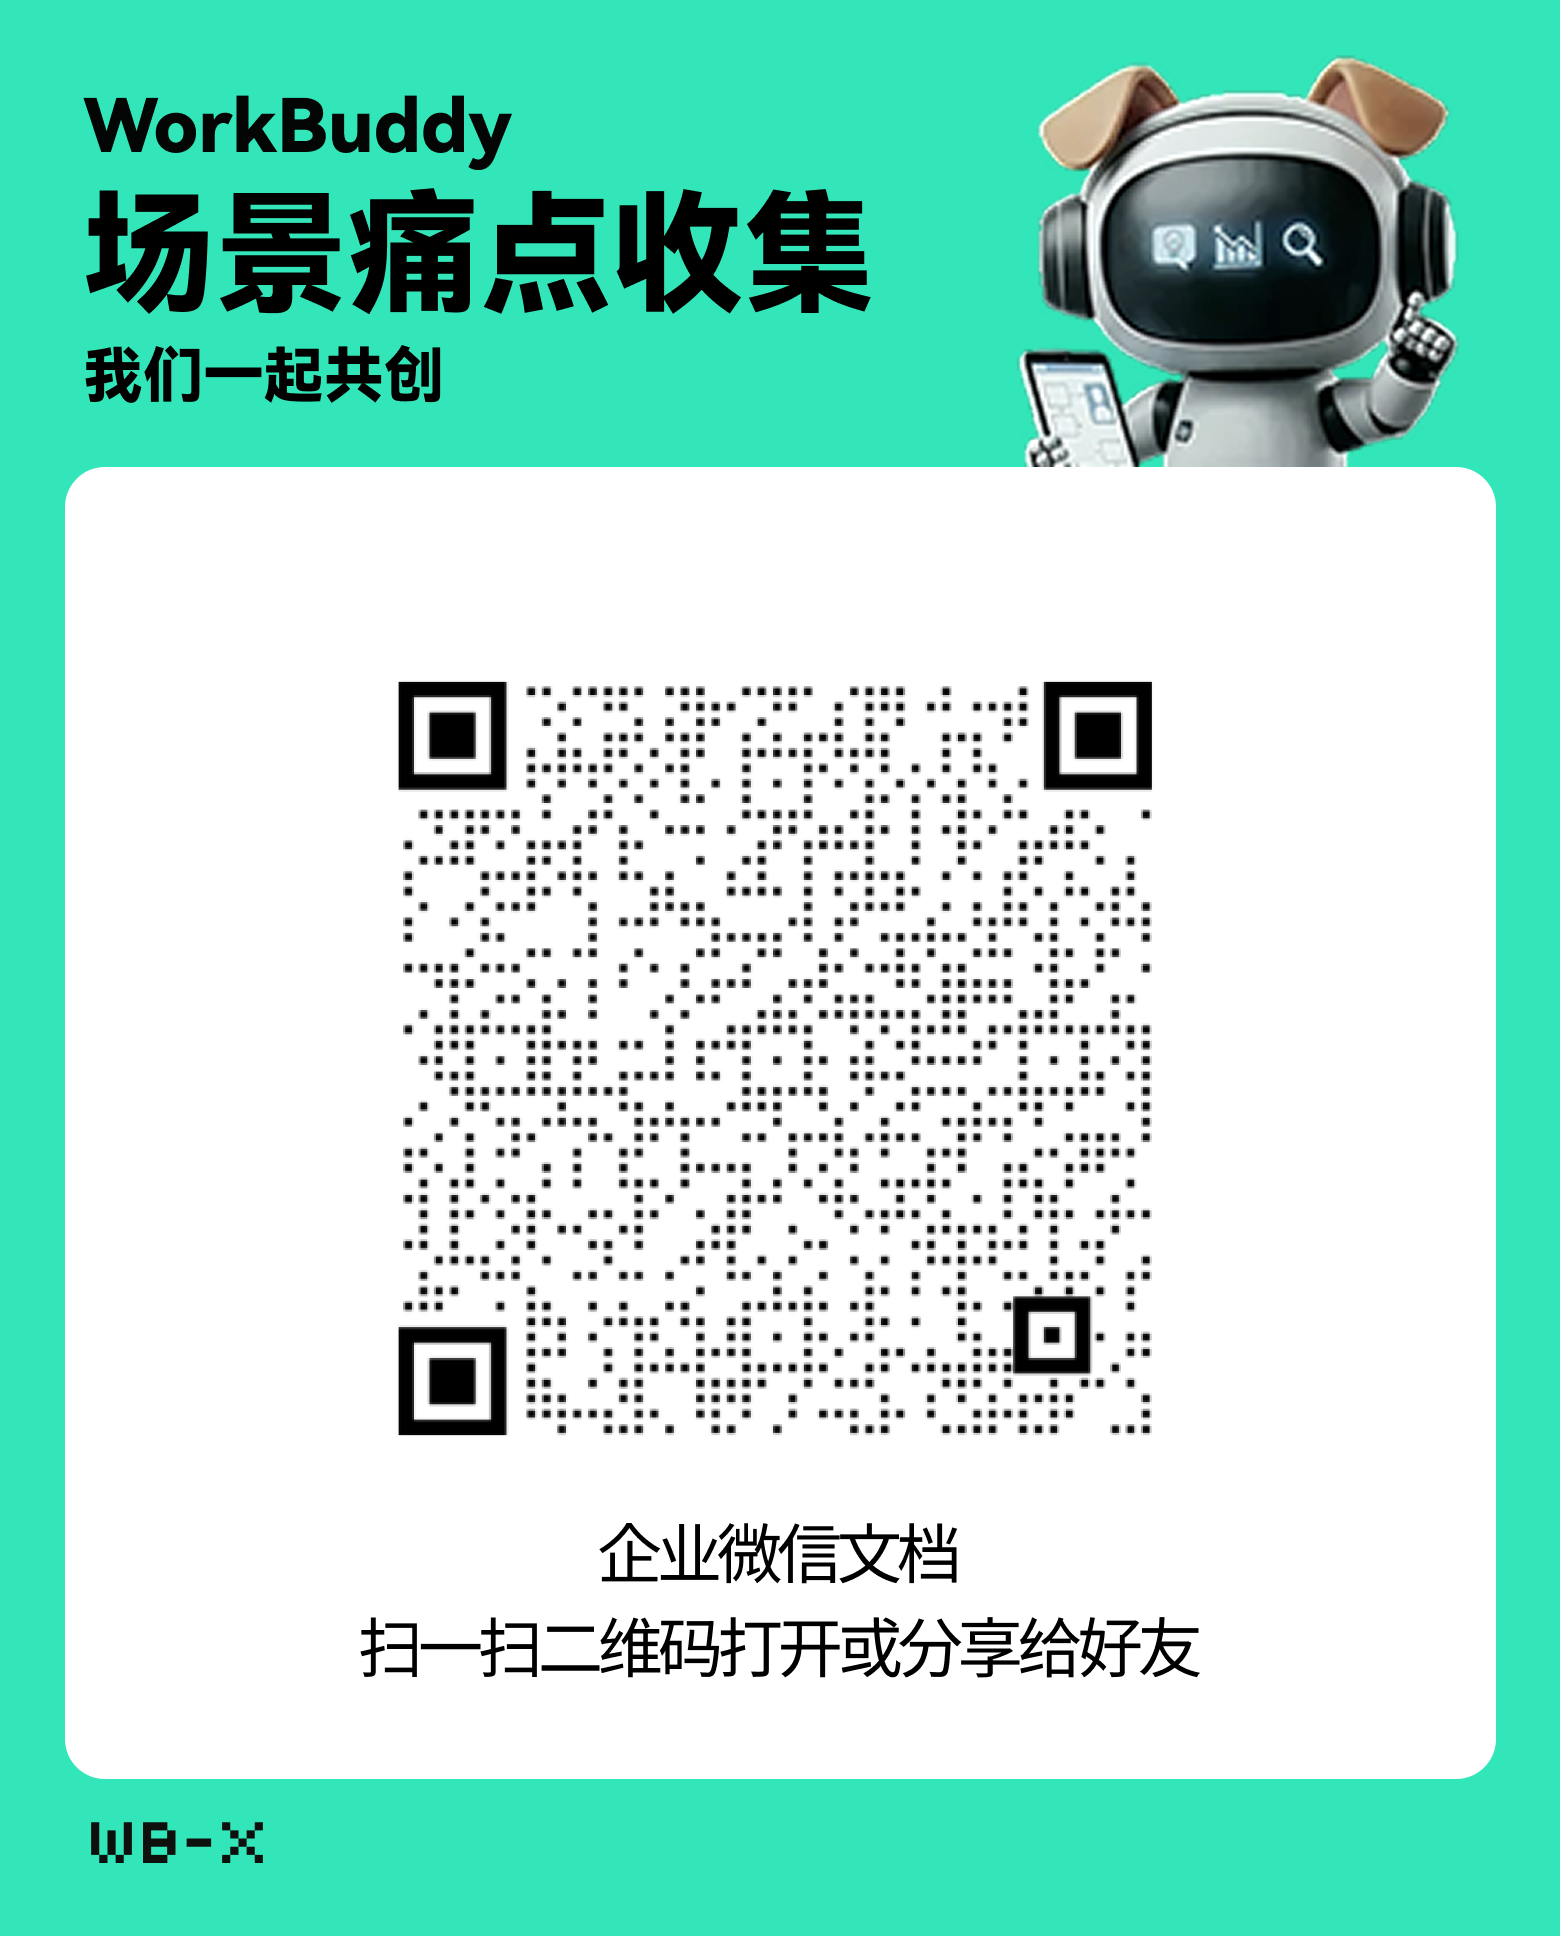
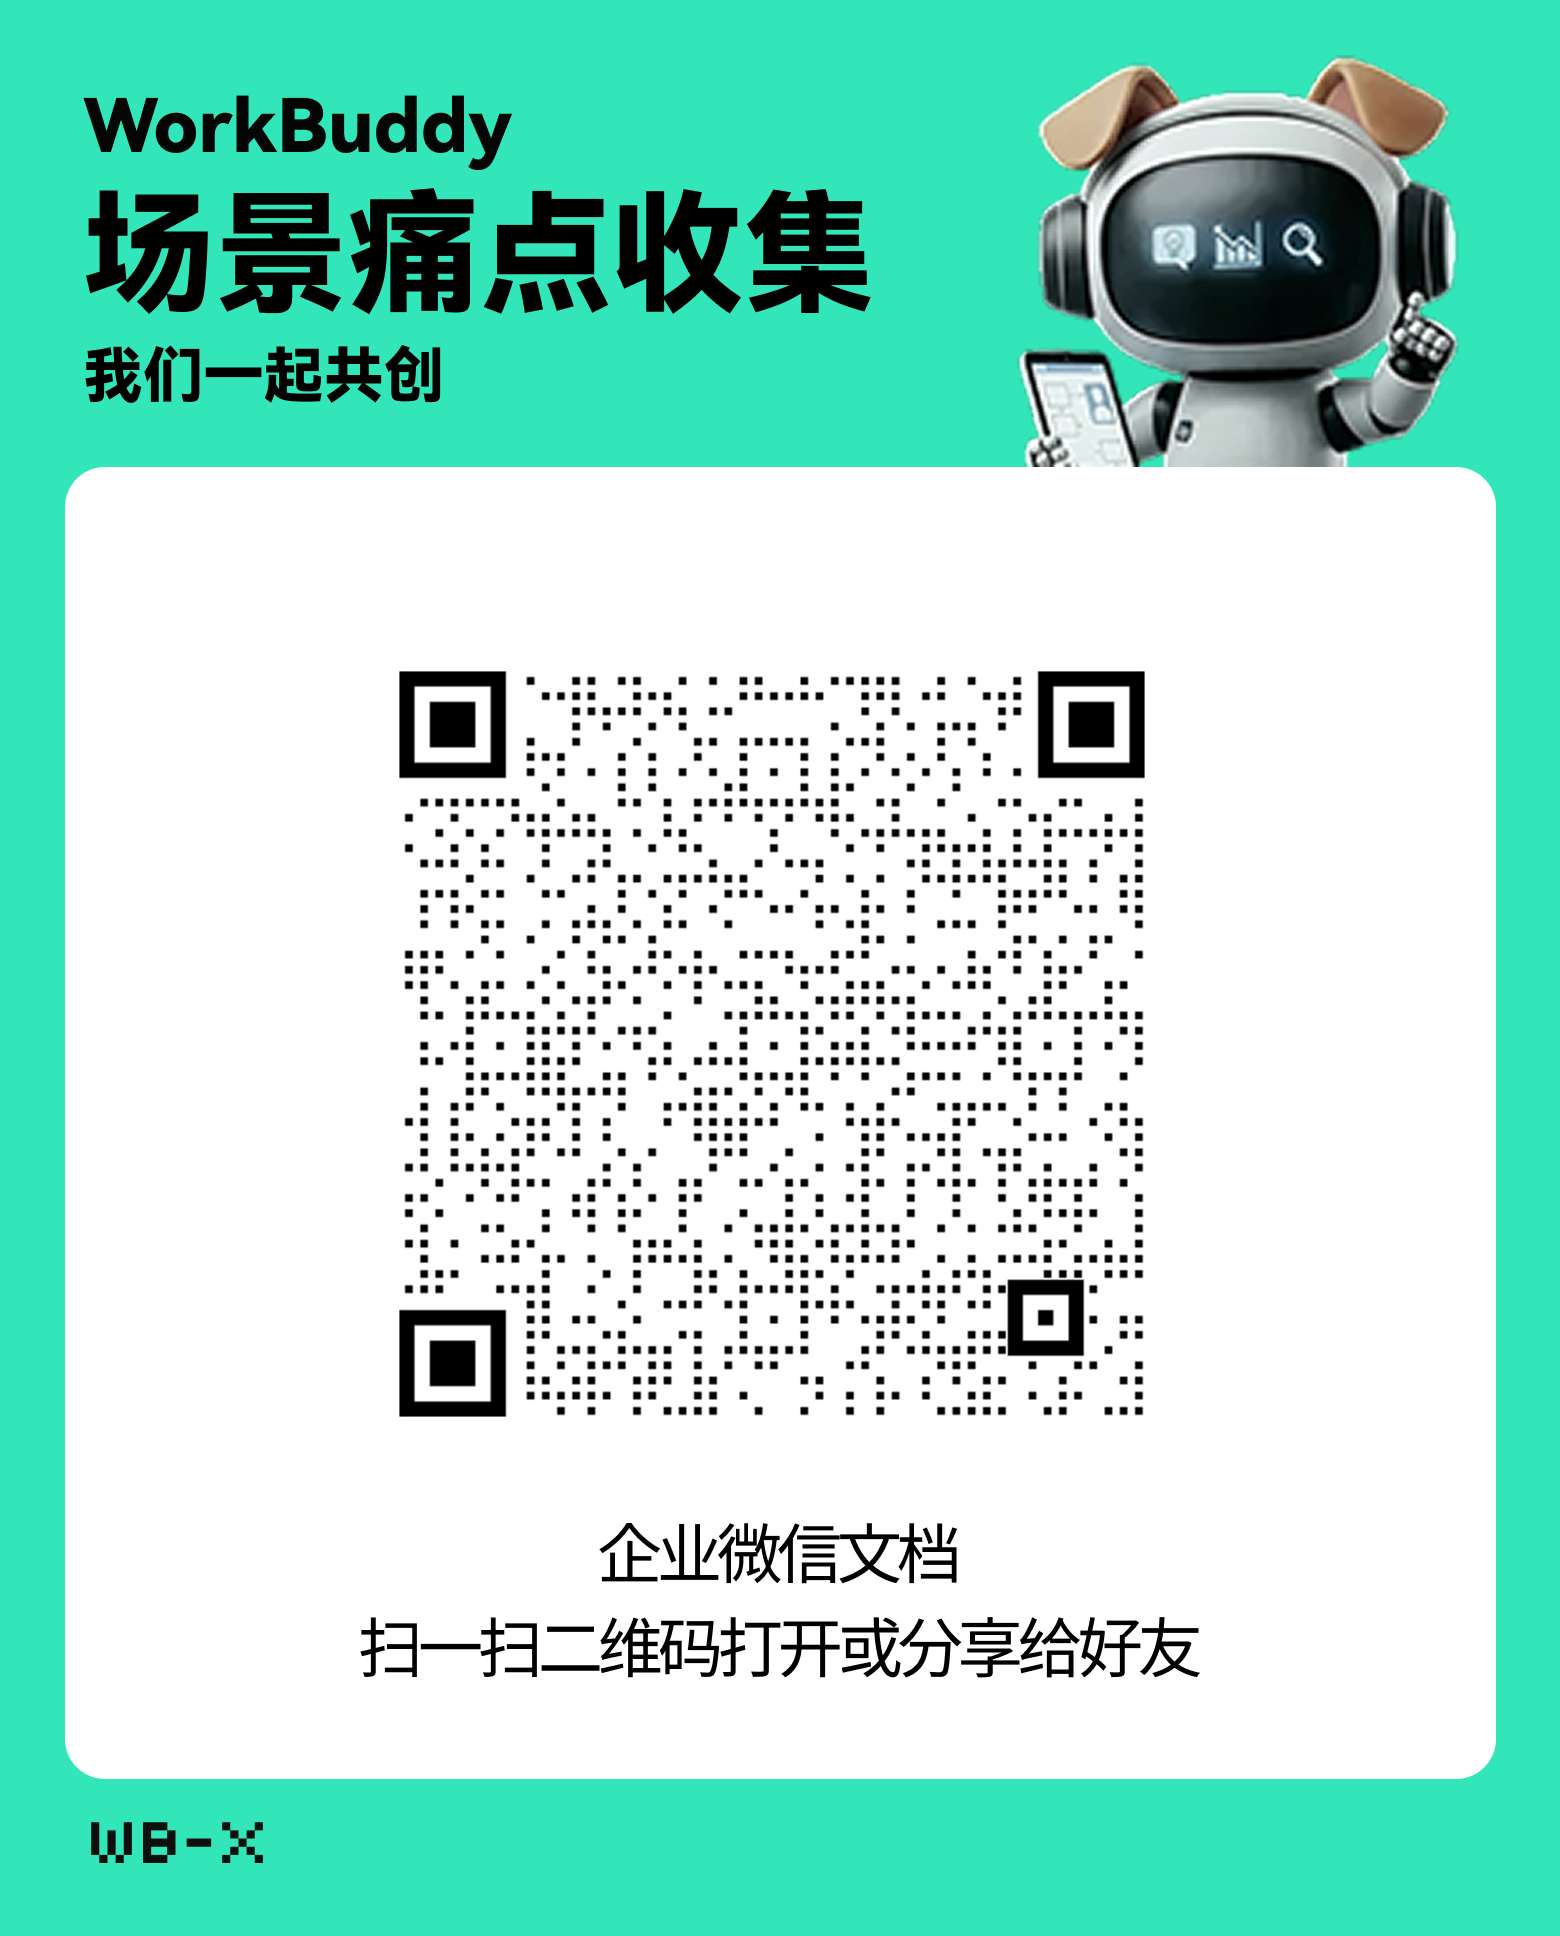
content: update survey poster and community copy

Changed region(s): [[0.2462, 0.3409, 0.7385, 0.7438]]

diff --git a/docs/.vitepress/theme/CommunityQr.vue b/docs/.vitepress/theme/CommunityQr.vue
@@ -131,7 +131,7 @@ onBeforeUnmount(() => {
         class="wbx-community-qr"
         role="dialog"
         aria-labelledby="wbx-community-qr-title"
-        aria-describedby="wbx-community-qr-help wbx-community-qr-maintenance"
+        aria-describedby="wbx-community-qr-help"
         tabindex="-1"
         :data-placement="position.placement"
         :style="{ left: `${position.left}px`, top: `${position.top}px` }"
@@ -153,10 +153,7 @@ onBeforeUnmount(() => {
           height="800"
         />
 
-        <p id="wbx-community-qr-help" class="wbx-community-qr__help">按 Escape 关闭</p>
-        <p id="wbx-community-qr-maintenance" class="wbx-community-qr__maintenance">
-          二维码过期后，在 GitHub 中覆盖同名文件即可更新。
-        </p>
+        <p id="wbx-community-qr-help" class="wbx-community-qr__help">欢迎创客一起共创</p>
       </section>
     </div>
   </Teleport>

diff --git a/tests/brand.test.ts b/tests/brand.test.ts
@@ -142,10 +142,15 @@ describe('brand configuration', () => {
 
   it('keeps the QR popover on the stable replacement path', () => {
     const source = readFileSync('docs/.vitepress/theme/CommunityQr.vue', 'utf8')
+    const css = readFileSync('docs/.vitepress/theme/custom.css', 'utf8')
     expect(source).toContain('brand.qrPath')
     expect(source).toContain('withBase(brand.qrPath)')
     expect(source).not.toContain('aria-modal=')
-    expect(source).toContain('按 Escape 关闭')
+    expect(source).toContain('欢迎创客一起共创')
+    expect(source).not.toContain('二维码过期后')
+    expect(source).toContain('aria-describedby="wbx-community-qr-help"')
+    expect(source).not.toContain('wbx-community-qr-maintenance')
+    expect(css).not.toContain('.wbx-community-qr__maintenance')
   })
 
   it('keeps the QR close control named when mobile hides its visible label', () => {

diff --git a/tests/help-survey-poster.test.ts b/tests/help-survey-poster.test.ts
@@ -1,9 +1,20 @@
+import { createHash } from 'node:crypto'
 import { readFileSync } from 'node:fs'
 import { describe, expect, it } from 'vitest'
 
 const helpPage = readFileSync('docs/help/index.md', 'utf8')
 
 describe('help survey poster layout', () => {
+  it('uses the approved scene collection poster', () => {
+    const poster = readFileSync(
+      'docs/public/article-assets/source-calibration/help/001.png',
+    )
+
+    expect(createHash('sha256').update(poster).digest('hex')).toBe(
[1 lines of base64/hex data omitted]
+    )
+  })
+
   it('renders the survey poster full width without a fixed height cap', () => {
     const rule = helpPage.match(/\.help-survey-card img\s*{([\s\S]*?)}/)?.[1] ?? ''
 

diff --git a/tests/community-qr.test.ts b/tests/community-qr.test.ts
@@ -73,7 +73,10 @@ describe('CommunityQr', () => {
 
     expect(dialog?.hasAttribute('aria-modal')).toBe(false)
     expect(dialog?.getAttribute('aria-labelledby')).toBe('wbx-community-qr-title')
+    expect(dialog?.getAttribute('aria-describedby')).toBe('wbx-community-qr-help')
     expect(dialog?.textContent).toContain('加入交流群')
+    expect(dialog?.textContent).toContain('欢迎创客一起共创')
+    expect(dialog?.textContent).not.toContain('二维码过期后')
     expect(image?.getAttribute('src')).toBe('/community/wechat-group.png')
     expect(image?.getAttribute('width')).toBe('800')
     expect(image?.getAttribute('height')).toBe('800')

diff --git a/docs/.vitepress/theme/custom.css b/docs/.vitepress/theme/custom.css
@@ -461,16 +461,11 @@ body {
   image-rendering: auto;
 }
 
-.wbx-community-qr__help,
-.wbx-community-qr__maintenance {
+.wbx-community-qr__help {
   margin: 8px 0 0;
   color: var(--wbx-muted);
   font-size: 11px;
   line-height: 1.6;
-}
-
-.wbx-community-qr__maintenance {
-  margin-top: 3px;
 }
 
 .wb-contact-grid {

diff --git a/docs/superpowers/plans/2026-08-02-survey-poster-and-community-copy.md b/docs/superpowers/plans/2026-08-02-survey-poster-and-community-copy.md
@@ -1,0 +1,132 @@
+# 场景海报与交流群文案更新实施计划
+
+> **For agentic workers:** REQUIRED SUB-SKILL: Use superpowers:subagent-driven-development (recommended) or superpowers:executing-plans to implement this plan task-by-task. Steps use checkbox (`- [ ]`) syntax for tracking.
+
+**Goal:** 替换 `/help/` 场景收集海报，并简化交流群二维码浮层底部文案。
+
+**Architecture:** 保持帮助页现有图片 URL 和布局，仅覆盖同名 PNG 资源。交流群组件继续保留 Escape 关闭逻辑，但将可见提示改为共创文案、删除维护说明，并同步收紧 `aria-describedby`。
+
+**Tech Stack:** Vue 3、VitePress、Vitest、Node.js `crypto`。
+
+## Global Constraints
+
+- 新海报必须保持 `1560 × 1936` PNG 尺寸。
+- 帮助页的图片路径、点击大图行为、alt 文案和布局不变。
+- Escape 关闭、关闭按钮、焦点恢复和浮层定位行为不变。
+- 浮层只显示 `欢迎创客一起共创`，不得显示二维码维护说明。
+
+---
+
+### Task 1: 替换场景收集海报
+
+**Files:**
+- Modify: `docs/public/article-assets/source-calibration/help/001.png`
+- Test: `tests/help-survey-poster.test.ts`
+
+**Interfaces:**
+- Consumes: `docs/help/index.md` 对 `/article-assets/source-calibration/help/001.png` 的现有引用。
[1 lines of base64/hex data omitted]
+
+- [ ] **Step 1: 添加失败的海报哈希测试**
+
+```ts
+import { createHash } from 'node:crypto'
+
+const poster = readFileSync('docs/public/article-assets/source-calibration/help/001.png')
+expect(createHash('sha256').update(poster).digest('hex')).toBe(
[1 lines of base64/hex data omitted]
+)
+```
+
+- [ ] **Step 2: 运行测试并确认旧海报哈希导致失败**
+
+运行：
+
+```bash
+node ./node_modules/vitest/vitest.mjs run tests/help-survey-poster.test.ts
+```
+
[1 lines of base64/hex data omitted]
+
+- [ ] **Step 3: 覆盖同名海报资源**
+
+将 `/Users/wangyi/Desktop/场景收集二维码.png` 原样复制到 `docs/public/article-assets/source-calibration/help/001.png`，不转码、不缩放。
+
+- [ ] **Step 4: 运行聚焦测试并确认通过**
+
+运行同一测试，预期全部通过。
+
+### Task 2: 更新交流群浮层文案
+
+**Files:**
+- Modify: `docs/.vitepress/theme/CommunityQr.vue`
+- Modify: `docs/.vitepress/theme/custom.css`
+- Test: `tests/brand.test.ts`
+- Test: `tests/community-qr.test.ts`
+
+**Interfaces:**
+- Consumes: `openCommunityQr(trigger)`、现有 Escape 键处理与焦点恢复逻辑。
+- Produces: 只由 `wbx-community-qr-help` 描述的非模态二维码浮层。
+
+- [ ] **Step 1: 添加失败的文案与无障碍回归测试**
+
+```ts
+expect(source).toContain('欢迎创客一起共创')
+expect(source).not.toContain('二维码过期后')
+expect(source).toContain('aria-describedby="wbx-community-qr-help"')
+expect(source).not.toContain('wbx-community-qr-maintenance')
+```
+
+组件测试打开浮层后断言：
+
+```ts
+expect(dialog?.textContent).toContain('欢迎创客一起共创')
+expect(dialog?.textContent).not.toContain('二维码过期后')
+expect(dialog?.getAttribute('aria-describedby')).toBe('wbx-community-qr-help')
+```
+
+- [ ] **Step 2: 运行聚焦测试并确认失败**
+
+```bash
+node ./node_modules/vitest/vitest.mjs run tests/brand.test.ts tests/community-qr.test.ts
+```
+
+预期：旧提示文案、旧维护说明和双 ID `aria-describedby` 导致失败。
+
+- [ ] **Step 3: 完成最小组件修改**
+
+将 `aria-describedby` 更新为 `wbx-community-qr-help`，将帮助文案改为 `欢迎创客一起共创`，删除 `wbx-community-qr-maintenance` 段落及其专用 CSS；不修改脚本中的 Escape 处理。
+
+- [ ] **Step 4: 运行聚焦测试并确认通过**
+
+运行 Task 2 的聚焦测试，预期全部通过。
+
+### Task 3: 完整验证与提交
+
+**Files:**
+- Verify: `docs/public/article-assets/source-calibration/help/001.png`
+- Verify: `docs/.vitepress/theme/CommunityQr.vue`
+- Verify: `tests/help-survey-poster.test.ts`
+- Verify: `tests/brand.test.ts`
+- Verify: `tests/community-qr.test.ts`
+
+**Interfaces:**
+- Consumes: Tasks 1–2 的修改。
+- Produces: 可构建、可推送的完整变更集。
+
+- [ ] **Step 1: 运行完整验证**
+
+```bash
+node ./node_modules/vitest/vitest.mjs run --reporter=dot
+node ./node_modules/vitepress/bin/vitepress.js build docs
+git diff --check
+```
+
+预期：全部测试通过、生产构建成功、diff 检查无输出。
+
+- [ ] **Step 2: 提交**
+
+```bash
+git add docs/public/article-assets/source-calibration/help/001.png docs/.vitepress/theme/CommunityQr.vue tests/help-survey-poster.test.ts tests/brand.test.ts tests/community-qr.test.ts docs/superpowers/plans/2026-08-02-survey-poster-and-community-copy.md
+git commit -m "content: update survey poster and community copy"
+```
